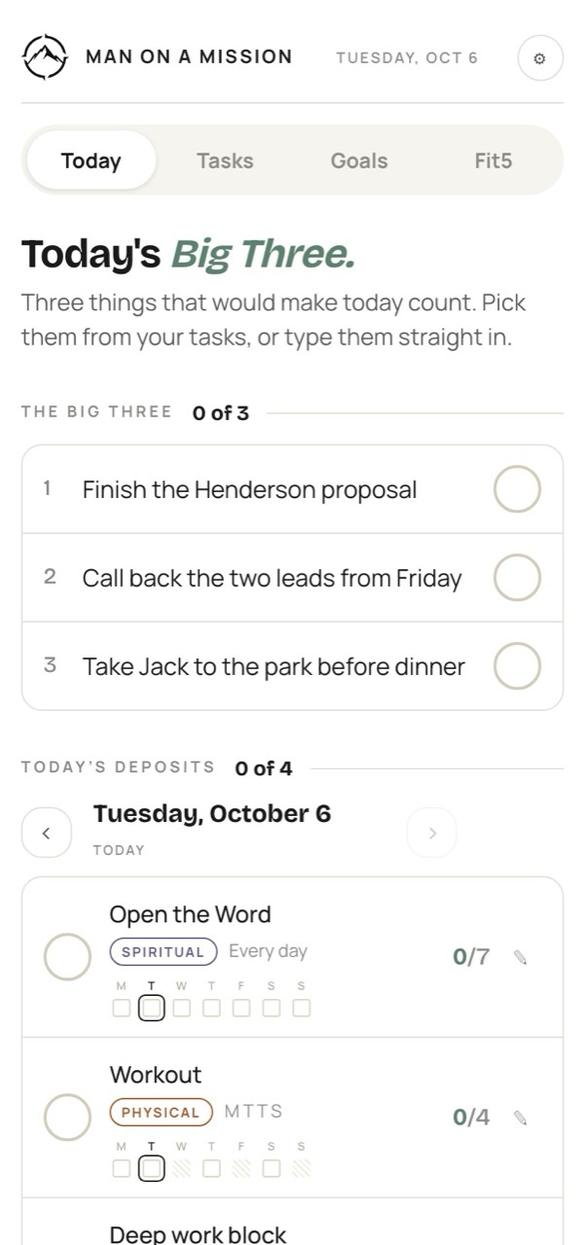
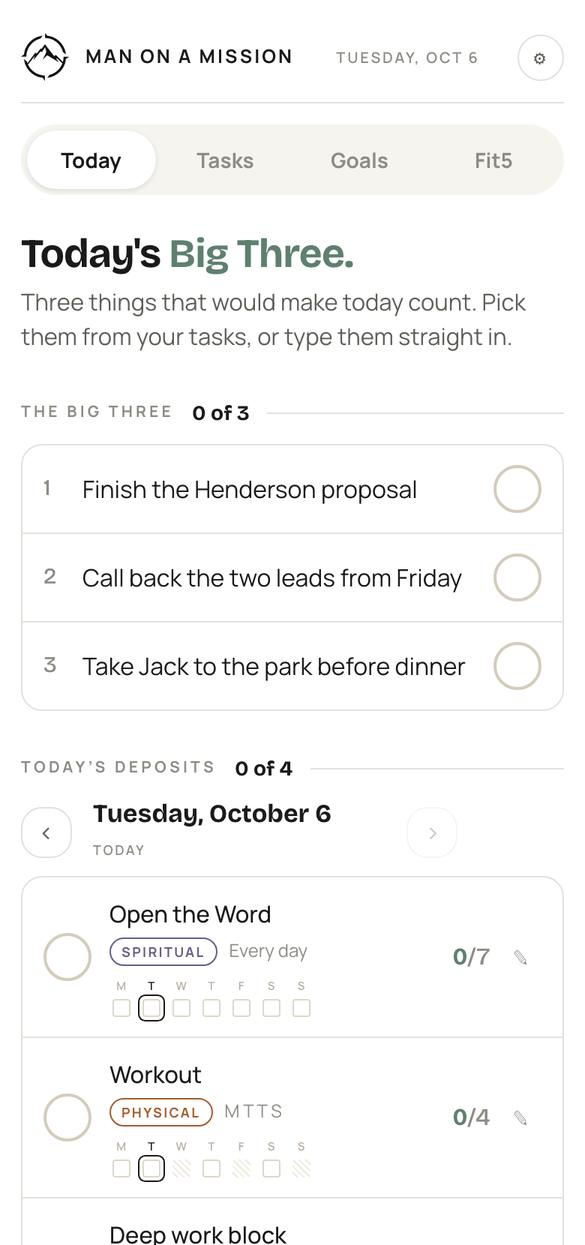
Habit tracker rebrand: un-italicise accent words, round inputs and sliders, retake hero
The first pass lost to more specific Field Notes selectors (.gatebox h1 em, .fld input).

diff --git a/habittracker/app/index.html b/habittracker/app/index.html
@@ -338,13 +338,17 @@ input[type=range]::-moz-range-thumb{width:20px;height:20px;border-radius:2px;bac
 .stat,.goal,.month,.mb,.install,.walk,.frame,.doc,.op,.ab,.dy,.ibar,.ig,.nav,.gmsg{border-radius:14px}
 .ico,.play{border-radius:50%}
 h1,h2,h3{letter-spacing:-.02em}
-em{font-style:normal}
+em,h1 em,h2 em,.gatebox h1 em{font-style:normal}
 .gseg{border:0;border-radius:999px;background:var(--tint);padding:4px;gap:4px;overflow:hidden}
 .gseg button{border-radius:999px;text-transform:none;letter-spacing:0;font-size:14px;background:transparent}
 .gseg button+button{border-left:0}
 .gseg button.on{background:var(--sage);color:#fff}
 .invite a{border-radius:999px;text-transform:none;letter-spacing:0;font-size:15px;padding:13px 24px;font-family:var(--bf)}
-input,select,textarea{border-radius:12px}
+.fld input,.fld select,.fld textarea,.tin input,.gf input{border-radius:12px;border-color:#D5D3CC}
+input[type=range]::-webkit-slider-thumb{border-radius:50%}
+input[type=range]::-moz-range-thumb{border-radius:50%}
+input[type=range]::-webkit-slider-runnable-track{border-radius:999px}
+input[type=range]::-moz-range-track{border-radius:999px}
 </style>
 </head><body>
 
